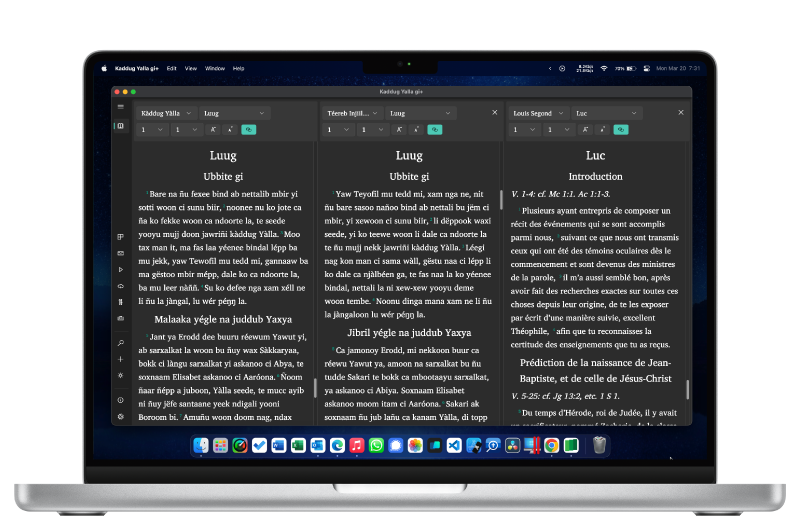
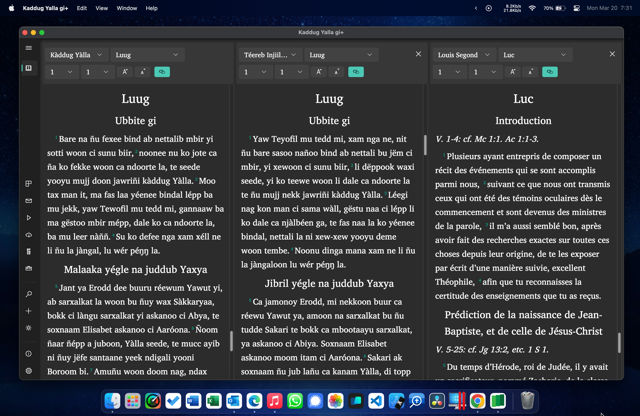
read me revisions and final corrections

diff --git a/app.js b/app.js
@@ -34,11 +34,10 @@
       subtitle: "Native Mobile Experience",
       title: "Organize your life with effortless speed.",
       mainText: "Crafted with clean native interactions, instant sync, and zero distractions. Built to elevate how you work every single day.",
-      screenshot: "images/screenshot_1.png"
+      screenshot: "images/ios_screenshot.png"
     },
     stores: {
       heading: "Download for iOS & Android",
-      showBadges: true,
       showIos: true,
       showAndroid: true,
       appStore: {
@@ -54,21 +53,21 @@
       {
         headline: "Real-time sync across all your devices",
         text: "Your notes, tasks, and habits stay in perfect synchronization. Cloud-first architecture ensures instant availability everywhere you go.",
-        image: "images/screenshot_1.png",
+        image: "images/ios_screenshot.png",
         url: "https://example.com/sync",
         cardGlow: true
       },
       {
         headline: "Distraction-free clarity with thoughtful design",
         text: "Every pixel is placed with intention. Enjoy high-contrast legibility, calm color tones, and tactile responsive controls that respect your focus.",
-        image: "images/screenshot_1.png",
+        image: "images/ios_screenshot.png",
         url: "https://example.com/design",
         cardGlow: true
       },
       {
         headline: "Offline-ready with robust local persistence",
         text: "Stay productive even without an active internet connection. Work uninterrupted on planes, subways, or remote spots with instant local caching.",
-        image: "images/screenshot_1.png",
+        image: "images/ios_screenshot.png",
         url: "https://example.com/offline",
         cardGlow: true
       }
@@ -399,7 +398,7 @@
 
           const img = document.createElement('img');
           img.className = 'feature-img';
-          img.src = sec.image || 'images/screenshot_1.png';
+          img.src = sec.image || 'images/ios_screenshot.png';
           img.alt = labelText;
           img.loading = 'lazy';
           img.decoding = 'async';

diff --git a/README.md b/README.md
@@ -1,71 +1,35 @@
-# Mobile App Showcase Landing Page
+# 📱 Mobile App Showcase Landing Page
 
-A high-performance, responsive, zero-framework landing page built with **pure vanilla HTML5, CSS3, and JavaScript**. Designed for simplicity and low maintenance. Controlled through a single editable `content.json` file.
+Welcome! This is a clean, modern, and beautifully animated landing page template made for your mobile app. 
 
----
+👉 Live demo at https://ngaretou.github.io/landing_page/ 👈
 
-## ✨ Key Features
-
-- **Zero Frameworks & Zero Build Step**: No React, Tailwind, npm dependencies, or bundlers that can break over time. Just edit `content.json` and host anywhere.
-- **JSON-Driven Configuration (`content.json`)**: Customize typography, color palette, hero copy, App Store / Google Play links, a growable list of feature sections, and footer text without touching HTML or JS.
-- **3D Phone Scroll Hero Widget**:
-  - Aerospace metallic silver/titanium device chassis (consistent across light and dark modes) with physical side buttons, pitch-black Dynamic Island camera cutout. 
-  - **Edge-to-Edge Bezel Sync**: Automatically matches the inner bezel's aspect ratio to your hero screenshot's natural dimensions (`naturalWidth / naturalHeight`) so there are zero top or bottom gaps.
-  - **Smooth 3D Scroll Interpolation**: Starts tilted backward (`rotateX(24deg) scale(0.94)`) below the hero text and smoothly flattens to `0deg` while climbing upward to frame the headline as the user scrolls.
-- **Alternating Color Bands & Spotlight Glass Cards**:
-  - Feature sections alternate between full-width **Surface** and **Accent** color bands with automatic high-contrast inverse typography.
-  - Text blocks are wrapped in frosted glass tabs (`backdrop-filter: blur()`) featuring an interactive pointer-tracking radial spotlight glow.
-  - Optional per-section `url` turns both the glass text card and screenshot into clickable links.
-- **Uncropped Portrait & Landscape Screenshots**:
-  - Screenshots are never force-cropped. `app.js` detects each image's aspect ratio on load and applies tailored portrait or landscape sizing rules for desktop and mobile viewports.
-- **Dynamic Google Fonts & Theme Switcher**:
-  - Automatically loads any Google Font specified in `content.json` (defaults to **Outfit** for headings and **Poppins** for body copy).
-  - Floating bottom-right Light/Dark theme toggle with `localStorage` persistence and system preference detection.
+It was designed especially for app creators, small teams, and anyone who wants a stunning website without the headache of coding. You **do not** need to know HTML, CSS, JavaScript, or any complex web developer tools to make this your own. Everything you see on the page—from the titles and descriptions to your app screenshots, store links, colors, and fonts—is controlled through one simple, human-editable file called **`content.json`**.
 
 ---
 
-## 📁 Project Structure
+## ✨ What You Get
 
-```text
-/
-├── content.json          # Main editable configuration & copy file
-├── index.html            # Semantic HTML5 structure
-├── styles.css            # Design system, CSS variables, 3D phone & responsive layout
-├── app.js                # Config loader, DOM hydration, 3D scroll interpolation, spotlight & theme engine
-├── images/
-│   ├── app-store-badge.png
-│   ├── google-play-badge.png
-│   └── screenshot_1.png  # App screenshots referenced in content.json
-└── .gemini/
-    ├── requirements.md   # Original product & widget requirements
-    ├── plan.md           # Architecture & technical implementation plan
-    ├── style.md          # Visual guidelines & anti-slop catalog
-    └── progress.md       # Implementation & calibration log
-```
-
----
-
-## 🚀 Quick Start (Running Locally)
-
-Because modern browsers block `fetch('content.json')` over the `file://` protocol due to CORS security rules, preview the page using any lightweight local HTTP server from the project root:
-
-```bash
-python3 -m http.server 8080
-```
-
-Then open **[http://localhost:8080](http://localhost:8080)** in your browser (or use the **VS Code Live Server** extension).
-
-> **Offline / `file://` Fallback**: If opened directly via `file://`, `app.js` includes a built-in `DEFAULT_CONFIG` fallback so the page still renders cleanly.
+- **Eye-Catching 3D Phone Display**: An interactive smartphone showcase right at the top that smoothly stands up and frames your app title as visitors scroll down the page.
+- **iPhone or Android Look**: Switch between an iPhone or Android phone frame with realistic side buttons and camera cutouts with a single setting.
+- **Ready for App Store & Google Play**: Badges for Apple App Store and Google Play are built right in. If your app is only on Android or only on iOS, you can easily turn off the badge you don't need.
+- **Alternating Feature Cards**: Beautiful cards with frosted glass tabs and interactive light effects that highlight what makes your app special.
+- **Light & Dark Theme Toggle**: Visitors can switch between dark and light themes with the tap of a button, and the page remembers their choice.
+- **Line Breaks Made Simple**: Easily add line breaks and paragraphs in your text using `\n` or `<br>`.
+- **Works on Every Screen**: Fully responsive and mobile-friendly. It looks great whether someone visits on an iPhone, an Android phone, an iPad, or a widescreen computer monitor.
+- **Zero Maintenance**: No frameworks, build steps, or complicated software that breaks over time. Just plain, reliable web files.
 
 ---
 
 ## 🛠 Customizing Your Landing Page (`content.json`)
 
-All content and styling tokens live in `content.json`:
+All your text, links, pictures, and color settings live in one file: **`content.json`**. You can open it in any text editor.
+
+Here is an example of what it looks like inside:
 
 ```json
 {
-  "pageTitle": "App Showcase",
+  "pageTitle": "My Awesome App",
   "favicon": "images/favico.svg",
   "frame": {
     "type": "iphone",
@@ -86,68 +50,117 @@ All content and styling tokens live in `content.json`:
   "hero": {
     "subtitle": "Native Mobile Experience",
     "title": "Organize your life with effortless speed.",
-    "mainText": "Crafted with clean native interactions, instant sync, and zero distractions. Built to elevate how you work every single day.",
-    "screenshot": "images/screenshot_1.png"
-  },
-  "stores": {
-    "heading": "Download for iOS & Android",
-    "showBadges": true,
-    "showIos": true,
-    "appStore": {
-      "url": "https://apple.com",
-      "badge": "images/app-store-badge.svg"
-    },
-    "googlePlay": {
-      "url": "https://google.com",
-      "badge": "images/play-store-badge.svg"
-    }
-  },
-  "sections": [
-    {
-      "headline": "Real-time sync across all your devices",
-      "text": "Your notes, tasks, and habits stay in perfect synchronization. Cloud-first architecture ensures instant availability everywhere you go.",
-      "image": "images/screenshot_1.png",
-      "url": "https://example.com/sync",
-      "cardGlow": true
-    }
-  ],
-  "footer": {
-    "copyright": "© 2026 Your App Name. All rights reserved."
-  }
+    "mainText": "Everything you need to track, manage, and elevate your daily routine in one sleek package.",
+    "screenshot": "images/ios_screenshot.png"
+  }...
 }
 ```
 
-### Field Reference
+### Helpful Tips for Customizing
 
-| Path | Description |
-| :--- | :--- |
-| `pageTitle` | Page title populated to `<head><title>` in the browser tab and search engines. |
-| `favicon` | Path to the website favicon (e.g. `"images/favico.svg"`, `.png`, or `.ico`). |
-| `frame.type` | Device chassis style: `"iphone"` (squircle corners, split side buttons) or `"android"` (sleeker radius, right-side power & volume buttons). |
-| `frame.cutout` | Camera cutout overlay: `"pill"` (Apple Dynamic Island), `"punch-hole"` (Android centered camera pin), or `"none"` (clean screen with no cutout overlay). |
-| `theme.defaultTheme` | Initial theme before user toggle (`"dark"` or `"light"`). |
-| `theme.fonts.heading` | Google Font family name for `h1`–`h4` headings (default: `"Outfit"`). |
-| `theme.fonts.body` | Google Font family name for body text (default: `"Poppins"`). |
-| `theme.palette.primary` | Hex color for the hero subtitle kicker and spotlight glow tint. |
-| `theme.palette.accent` | Hex color for alternating feature section bands (`.band-accent`). |
-| `theme.palette.surface` | Hex color for the dark-mode page background (`--bg-page`). |
-| `hero.*` | `subtitle`, `title` (fallback for `<title>` if `pageTitle` omitted), `mainText`, and `screenshot` path inside the 3D phone. |
-| `stores.showBadges` | Set to `false` to hide the App Store / Google Play section completely. |
-| `stores.showIos` | Set to `false` if your app is Android-only to hide the Apple App Store badge. |
-| `stores.heading` | Customizable heading above the store badges (defaults to "Download on Google Play" when `showIos` is `false`). |
-| `sections[]` | Growable array of feature rows. Odd sections (`1st, 3rd, ...`) use Accent bands (Text Left, Image Right); even sections (`2nd, 4th, ...`) use Surface bands (Image Left, Text Right) matching the hero background. Stack vertically on mobile. |
-| `sections[].headline` | *(Optional)* Headline for the section. If set to `""` or omitted, the headline and its spacing are eliminated so body text fills the card from the top. |
-| `sections[].text` | Description copy inside the feature's spotlight card. Supports line breaks via `\n` or `<br>`. |
-| `sections[].url` | *(Optional)* URL opened when clicking the feature's glass card or screenshot. |
-| `footer.copyright` | Copyright notice rendered in the site footer. |
+- **Adding Line Breaks & Paragraphs**:  
+  Inside any text field (like `mainText` or a feature's `text`), you can type `\n` to start a new line, or `\n\n` for a new paragraph. You can also use `<br>` if you prefer. Both work naturally!
+  
+- **Removing a Headline on a Feature Card**:  
+  If you want a feature card to show only description text without a headline, just leave it empty: `"headline": ""`. The template will automatically remove the headline line so your text fills the card from the top.
+
+- **Adding or Removing Feature Cards**:  
+  The `"sections"` list can have as many or as few cards as you want. Each card automatically alternates between your accent color and your background color.
+
+- **Adding Your App Screenshots**:  
+  Drop your image files into the `images/` folder, and write their paths in `content.json` (for example, `"images/my_screenshot.png"`). The page will automatically adapt to both tall phone captures and wide landscape captures without awkward cropping.
+
+- **Changing the Device Frame**:  
+  - In `"frame"`, change `"type"` to `"iphone"` or `"android"`.
+  - You can also choose `"cutout"`: `"pill"` (the modern camera island), `"punch-hole"` (centered selfie camera pin), or `"none"` (clean screen with no cutout overlay).
+
+- **Changing Store Badges**:  
+  - If your app is Android-only, set `"showIos": false`. The Apple badge will disappear and the heading will automatically adjust for you.
+  - If your app is iOS-only, set `"showAndroid": false`.
+  - Paste your real App Store and Google Play download links into `"url"`.
+
+- **Changing Colors & Fonts**:  
+  - You can pick your brand colors using simple hex codes (like `#4f46e5`).
+  - You can use any font from [Google Fonts](https://fonts.google.com/) by simply typing its name in `"heading"` and `"body"`.
 
 ---
 
-## 🌐 Deployment
+## 🚀 The Easiest Way to Get Started: Upload via FTP
 
-Since this project is 100% static with no build step, deploy the folder directly to **GitHub Pages**, **Cloudflare Pages**, **Netlify**, **Vercel**, **Firebase Hosting**, or any static web server by uploading `index.html`, `styles.css`, `app.js`, `content.json`, and `images/`.
+If you already have web hosting, the simplest way to get your landing page live is by uploading the files directly to your server:
+
+1. **Connect to your web server**: Open your favorite FTP program (such as [FileZilla](https://filezilla-project.org/) or [Cyberduck](https://cyberduck.io/)), or use the File Manager inside your web host's control panel (cPanel, Plesk, etc.).
+2. **Upload the project files**: Upload all the files in this folder to your website directory (usually named `public_html`, `www`, or `htdocs`):
+   - `index.html`
+   - `styles.css`
+   - `app.js`
+   - `content.json`
+   - The `images/` folder (with your app screenshots and icons)
+3. **Customize your content**: 
+   - Upload your screnshots or other images in the images folder
+   - Open `content.json` 
+     - either before uploading in any plain text editor (like Notepad on Windows or TextEdit on Mac)
+     - or right on the server after uploading via the FTP program's text editor 
+   
+4. **Visit your site**: Open your domain name in any browser, and your customized page is live!
+
+---
+
+## 💻 Previewing on Your Computer (Running a Local Server)
+
+You can preview your website locally on your computer by using Python, which comes with a built-in miniature web server.
+
+### Step 1: Make Sure You Have Python Installed
+- **Mac & Linux**: Python is usually already installed on your computer.
+- **Windows**: If you don't have Python installed, download it for free from the official website:
+  👉 **[https://www.python.org/downloads/](https://www.python.org/downloads/)**
+  
+  > ⚠ **Important for Windows Users**: When the installer opens, make sure to check the box at the bottom that says **"Add python.exe to PATH"** before clicking Install.
+
+### Step 2: Open Your Terminal or Command Prompt
+- **On Mac**: Press `Command + Space`, type `Terminal`, and press `Enter`.
+- **On Windows**: Press the `Windows key`, type `cmd` (or `Command Prompt`), and press `Enter`.
+
+### Step 3: Go to Your Project Folder
+Type `cd ` (with a space after it), then **drag and drop your landing page folder** from your file manager directly into the Terminal window. The computer will automatically fill in the full folder path! Then press `Enter`.
+
+```bash
+cd /path/to/your/landing_page
+```
+
+### Step 4: Start the Local Server
+Type this command and press `Enter`:
+
+```bash
+python3 -m http.server 8080
+```
+
+*(Note: On some Windows computers, type `python -m http.server 8080` instead if `python3` isn't recognized).*
+
+### Step 5: View Your Page
+Open your web browser and visit:
+👉 **[http://localhost:8080](http://localhost:8080)**
+
+You will now see your landing page reading directly from your `content.json` file. Any time you make changes to `content.json`, just refresh your browser to see the update!
+
+### Step 6: When You're Done
+To stop the server, click inside your Terminal / Command Prompt window and press `Ctrl + C`.
+
+---
+
+## 💡 Why Can't I Just Double-Click `index.html` on My Computer?
+
+If you try to double-click `index.html` directly from your desktop or folder to open it in your browser (a `file:///` address), you will notice that your custom text from `content.json` doesn't load and default text appears instead.
+
+**Why does this happen?**  
+Modern web browsers (like Chrome, Safari, Edge, and Firefox) have a strict built-in security rule: they do not allow a web page opened directly from your hard drive to read other files on your computer. This safety feature protects your private computer files from being read by unauthorized scripts.
+
+Because this template reads your content from `content.json`, the browser requires a real web server (either your live website host or a tiny local server running on your computer) before it permits the file to be read.
+
+If you want to test and preview changes on your computer before uploading to the web, you can run a tiny local server in just a couple of minutes following the guide above!
 
 ## Thanks & Acknowledgments  
+
 #### Created with Gemini 3.8 Flash & Gemini 4 Argon. 
 
 #### Inspiration from: 

diff --git a/.gemini/plan.md b/.gemini/plan.md
@@ -17,7 +17,7 @@ Build a high-performance, responsive, modern landing page driven by an editable 
 ├── images/
 │   ├── app-store-badge.png
 │   ├── google-play-badge.png
-│   ├── screenshot_1.png
+│   ├── ios_screenshot.png
 │   └── (user screenshots)
 ├── content.json          # Main editable configuration & copy file
 ├── index.html            # Semantic HTML skeleton & templates
@@ -49,10 +49,11 @@ To ensure backward compatibility and smooth upgrades for deployed apps, every fi
     "subtitle": "Introducing Your Next Favourite App",
     "title": "Experience simplicity, redefined.",
     "mainText": "Everything you need to track, manage, and elevate your daily routine in one sleek native package.",
-    "screenshot": "images/screenshot_1.png"
+    "screenshot": "images/ios_screenshot.png"
   },
   "stores": {
-    "showBadges": true,
+    "showIos": true,
+    "showAndroid": true,
     "appStore": {
       "url": "https://apple.com",
       "badge": "images/app-store-badge.png"
@@ -66,13 +67,13 @@ To ensure backward compatibility and smooth upgrades for deployed apps, every fi
     {
       "headline": "Real-time sync across devices",
       "text": "Never lose your place. Cloud-first architecture keeps your information synced instantly.",
-      "image": "images/screenshot_1.png",
+      "image": "images/ios_screenshot.png",
       "cardGlow": true
     },
     {
       "headline": "Distraction-free clarity",
       "text": "Crafted with precision typography and minimalist glass surfaces designed to stay out of your way.",
-      "image": "images/screenshot_1.png",
+      "image": "images/ios_screenshot.png",
       "cardGlow": true
     }
   ],
@@ -81,6 +82,30 @@ To ensure backward compatibility and smooth upgrades for deployed apps, every fi
   }
 }
 ```
+### Configuration Field Reference
+
+| Path | Description |
+| :--- | :--- |
+| `pageTitle` | Page title populated to `<head><title>` in the browser tab and search engines. |
+| `favicon` | Path to the website favicon (e.g. `"images/favico.svg"`, `.png`, or `.ico`). |
+| `frame.type` | Device chassis style: `"iphone"` (squircle corners, split side buttons) or `"android"` (sleeker radius, right-side power & volume buttons). |
+| `frame.cutout` | Camera cutout overlay: `"pill"` (Apple Dynamic Island), `"punch-hole"` (Android centered camera pin), or `"none"` (clean screen with no cutout overlay). |
+| `theme.defaultTheme` | Initial theme before user toggle (`"dark"` or `"light"`). |
+| `theme.fonts.heading` | Google Font family name for `h1`–`h4` headings (default: `"Outfit"`). |
+| `theme.fonts.body` | Google Font family name for body text (default: `"Poppins"`). |
+| `theme.palette.primary` | Hex color for the hero subtitle kicker and spotlight glow tint. |
+| `theme.palette.accent` | Hex color for alternating feature section bands (`.band-accent`). |
+| `theme.palette.surface` | Hex color for the dark-mode page background (`--bg-page`). |
+| `hero.*` | `subtitle`, `title` (fallback for `<title>` if `pageTitle` omitted), `mainText`, and `screenshot` path inside the 3D phone. |
+| `stores.showIos` | Set to `false` if your app is Android-only to hide the Apple App Store badge. |
+| `stores.showAndroid` | Set to `false` if your app is iOS-only to hide the Google Play badge. Set both to `false` to hide badges completely. |
+| `stores.heading` | Customizable heading above the store badges. |
+| `sections[]` | Growable array of feature rows. Odd sections (`1st, 3rd, ...`) use Accent bands (Text Left, Image Right); even sections (`2nd, 4th, ...`) use Surface bands (Image Left, Text Right) matching the hero background. Stack vertically on mobile. |
+| `sections[].headline` | *(Optional)* Headline for the section. If set to `""` or omitted, the headline and its spacing are eliminated so body text fills the card from the top. |
+| `sections[].text` | Description copy inside the feature's spotlight card. Supports line breaks via `\n` or `<br>`. |
+| `sections[].url` | *(Optional)* URL opened when clicking the feature's glass card or screenshot. |
+| `footer.copyright` | Copyright notice rendered in the site footer. |
+
 
 ---
 

diff --git a/.gemini/progress.md b/.gemini/progress.md
@@ -75,4 +75,6 @@
    - Coordinated smooth fade out in `app.js` after `content.json` finishes DOM hydration and the hero screenshot loads (with a 2.5s safety timeout).
    - Added `white-space: pre-line` and `formatText()` in `app.js` so both `\n` and `<br>` work seamlessly in `content.json`.
    - Supported empty headlines (`"headline": ""`): headline element and its margin are eliminated entirely so body text begins at the very top of the glass card.
+   - Streamlined store badge toggles: removed redundant `showBadges` in favor of intuitive `showIos: true/false` and `showAndroid: true/false` flags (with setting both to `false` automatically hiding the section).
+
 
